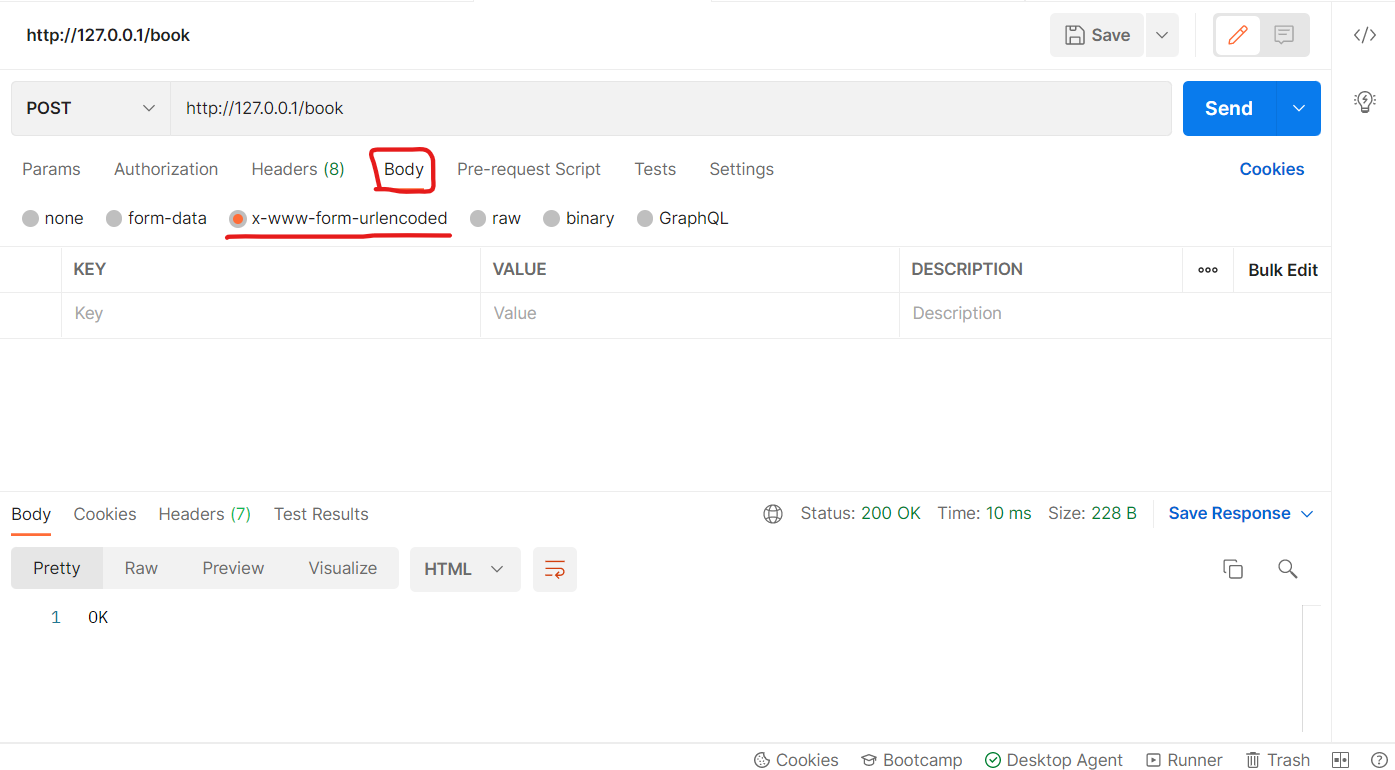
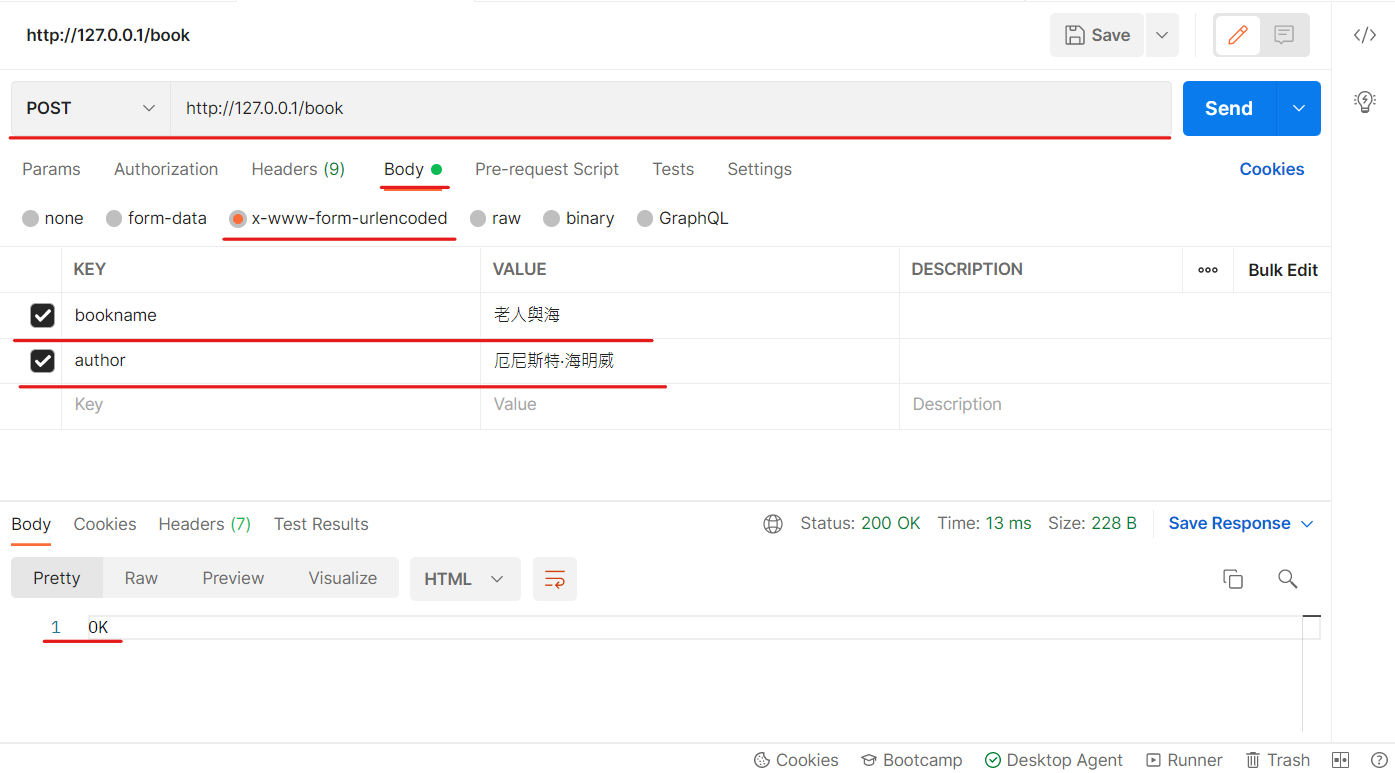
update REAMD.md

diff --git a/Node.js/day4/16.自訂義解析表單數據的中間件.js b/Node.js/day4/16.自訂義解析表單數據的中間件.js
@@ -20,7 +20,7 @@ app.use((req, res, next) => {
     // 3. 監聽 req 的 end 事件
     req.on('end', () => {
         // 在 str 中存放的是完整的請求體數據。
-        // console.log(str)
+        //console.log(str)
         // TODO : 把字符串格式的請求體數據，解析成對象格式
         const body = qs.parse(str)
         req.body = body
@@ -31,6 +31,7 @@ app.use((req, res, next) => {
 })
 
 app.post('/user', (req, res) => {
+    //console.log(req.body)
     res.send(req.body)
 })
 

diff --git a/Node.js/day4/19.使用express寫接口.js b/Node.js/day4/19.使用express寫接口.js
@@ -6,9 +6,10 @@ const app = express()
 // 配置表單數據的中間件
 app.use(express.urlencoded({extended: false}))
 
+app.use(express.json())
 
 
-// 蹈入路由模塊
+// 導入路由模塊
 const router = require('./20.apiRouter')
 
 // 先前說過 `app.use()` 就是註冊全局中間件，所以在這邊可以認為 router 就是一個中間件

diff --git a/Node.js/day4/17.對自訂義的中間件進行模塊化的拆分.js b/Node.js/day4/17.對自訂義的中間件進行模塊化的拆分.js
@@ -8,7 +8,7 @@ const app = express()
 // 1. 導入自己封裝的中間件模塊
 const customBodyParser = require('./18.custom-body-parser')
 
-// 2. 將自訂義的中間件函數，註冊為全局可用的中堅件
+// 2. 將自訂義的中間件函數，註冊為全局可用的中間件
 app.use(customBodyParser)
 
 app.post('/user', (req, res) => {

diff --git a/Node.js/day4/README.md b/Node.js/day4/README.md
@@ -529,7 +529,6 @@ app.post('/user', (req, res) => {
 })
 
 app.post('/book', (req, res) => {
-    // 在服務器端，可以通過 req.body 來獲取 JSON 格式的表單數據和 url-encoded 格式的數據
     console.log(req.body)
     res.send('OK')
 })
@@ -539,5 +538,217 @@ app.listen(80, () => {
     console.log('server running http://127.0.0.1')
 })
 ```
-* 以上效果可以在 **Postman** ，使用下圖的方式呈現 :
+* 以上 **JSON格式** 的效果可以在 **Postman** ，使用下圖的方式呈現 :
 <img src="./pict/expressJSON.png" width="60%">
+
+* 以上 **url-encoded格式** 的效果可以在 **Postman**，使用下圖的方式呈現 :
+<img src="./pict/expressurlencoded.png" width="60%">
+
+## [15.演示第三方中間件.js](./15.演示第三方中間件.js)
+這裡會簡單帶過，因為跟 [**14.演示內置中間件的使用.js**](./14.演示內置中間件的使用.js) 效果是一樣的。
+
+1. `const parser = require('body-parser')` : 導入解析表單數據的中間件 body-parser。
+2. `app.use(parser.urlencoded({extended: false}))` : 等同於`app.use(express.urlencoded({extended: false}))`。
+
+```js
+const express = require('express')
+
+const app = express()
+
+const parser = require('body-parser')
+
+app.use(parser.urlencoded({extended: false})) 
+
+app.post('/user', (req, res) => {
+    console.log(req.body)
+    
+    res.send('OK')
+})
+
+app.listen(80, () => {
+    console.log('server running http://127.0.0.1')
+})
+```
+
+## [16.自訂義解析表單數據的中間件.js](./16.自訂義解析表單數據的中間件.js)
+1. `const qs = require('querystring')` : 導入 Node.js 內置的 querystring 模塊。
+2. `let str = ''` : 定義一個 `str` 字符串，專門用來儲存客戶端發送過來的請求體數據。
+3. 監聽 req 的 data 事件 :
+   ```js
+    req.on('data', (chunck) => {
+        str += chunck
+    })
+   ```
+   > 我們的資料在傳輸時，不一定是整段傳輸，有可能會將資料分割成片段，這時我們需要重新串接起這些資料。
+   
+4. 監聽 req 的 end 事件 :
+    ```js
+    req.on('end', () => {
+        const body = qs.parse(str)
+        req.body = body
+        next()
+    }) 
+    ```
+    > `const body = qs.parse(str)`
+    >> 把字符串格式的請求體數據，解析成對象格式。
+---
+```js
+const express = require('express')
+
+const qs = require('querystring')
+
+const app = express()
+
+app.use((req, res, next) => {
+    let str = ''
+
+    req.on('data', (chunck) => {
+        str += chunck
+    })
+
+    req.on('end', () => {
+        const body = qs.parse(str)
+        req.body = body
+        next()
+    })
+})
+
+app.post('/user', (req, res) => {
+    res.send(req.body)
+})
+
+
+app.listen(80, (req, res) => {
+    console.log('server running http://127.0.0.1')
+})
+```
+
+## [17.對自訂義的中間件進行模塊化的拆分.js](./17.對自訂義的中間件進行模塊化的拆分.js)
+我們將把 [**16.自訂義解析表單數據的中間件.js**](./16.自訂義解析表單數據的中間件.js) 的解析表單的功能，單獨抽離開來，額外寫成一個模塊，[**18.custom-body-parser.js**](./18.custom-body-parser.js)。
+
+1. `const customBodyParser = require('./18.custom-body-parser')` : 導入自己封裝的中間件模塊。
+2. `app.use(customBodyParser)` : 將自訂義的中間件函數，註冊為全局可用的中間件。
+
+```js
+const express = require('express')
+const app = express()
+
+const customBodyParser = require('./18.custom-body-parser')
+
+app.use(customBodyParser)
+
+app.post('/user', (req, res) => {
+    res.send(req.body)
+})
+
+app.listen(80, (req, res) => {
+    console.log('server running http://127.0.0.1')
+})
+```
+
+## [18.custom-body-parser.js](./18.custom-body-parser.js)
+請執行 [**17.對自訂義的中間件進行模塊化的拆分.js**](./17.對自訂義的中間件進行模塊化的拆分.js) 查看效果。
+
+這與 [**16.自訂義解析表單數據的中間件.js**](./16.自訂義解析表單數據的中間件.js) 解析表單的方式差異不太，差在把它以變數儲存，並對外公開該變數。
+
+```js
+const qs = require('querystring')
+
+const bodyParser = (req, res, next) => {
+    let str = ''
+
+    req.on('data', (chunck) => {
+        str += chunck
+    })
+
+    req.on('end', () => {
+        const body = qs.parse(str)
+        req.body = body
+        next()
+    })
+
+}
+
+module.exports = bodyParser
+```
+
+## [19.使用express寫接口.js](./19.使用express寫接口.js)
+[**19.使用express寫接口.js**](./19.使用express寫接口.js) 的路由，由 [**20.apiRouter.js**](./20.apiRouter.js) 來統一處理。
+
+1. `app.use(express.urlencoded({extended: false}))` : 配置表單數據的中間件。
+2. `const router = require('./20.apiRouter')` : 導入路由模塊。 
+
+```js
+const express = require('express')
+const app = express()
+
+app.use(express.urlencoded({extended: false}))
+app.use(express.json())
+
+const router = require('./20.apiRouter')
+
+app.use('/api', router)
+
+app.listen(80, () => {
+    console.log('server running http://127.0.0.1')
+})
+```
+
+## [20.apiRouter.js](./20.apiRouter.js)
+[**20.apiRouter.js**](./20.apiRouter.js) 只處理 [**19.使用express寫接口.js**](./19.使用express寫接口.js) 的路由，請執行 [**19.使用express寫接口.js**](./19.使用express寫接口.js) 來展示效果。
+
+1. 調用 `res.send()` 方法，向客戶端響應處理的結果 :
+   ```js
+   res.send({
+       status: '0',
+       msg: "GET 請求成功",
+       data: query
+   })
+   ```
+   > `status: '0'` :
+   >> 0 表示處理成功，1 表示處理失敗。
+   >
+   > `msg: "GET 請求成功"` :
+   >> 狀態的描述。
+   >
+   > `data: query` :
+   >> 需要響應給客戶端的數據。
+
+2. 向客戶端響應 **HTTP狀態碼為200** 的結果 :
+    ```js
+    res.status(200).send({
+        status: '0',
+        msg: 'POST 請求成功!',
+        data: body
+    })
+    ```
+---
+```js
+const express = require('express')
+
+const router = express.Router()
+
+router.get('/get', (req, res) => {
+    const query = req.query
+
+    res.send({
+        status: '0',
+        msg: "GET 請求成功",
+        data: query
+    })
+    // console.log(query)
+})
+
+router.post('/post', (req, res) => {
+    const body = req.body
+    res.status(200).send({
+        status: '0',
+        msg: 'POST 請求成功!',
+        data: body
+    })
+    // console.log(body)
+})
+
+module.exports = router
+```
+* 更多HTTP狀態碼，可以看[維基百科詳列的資訊](https://zh.wikipedia.org/zh-tw/HTTP%E7%8A%B6%E6%80%81%E7%A0%81)。
